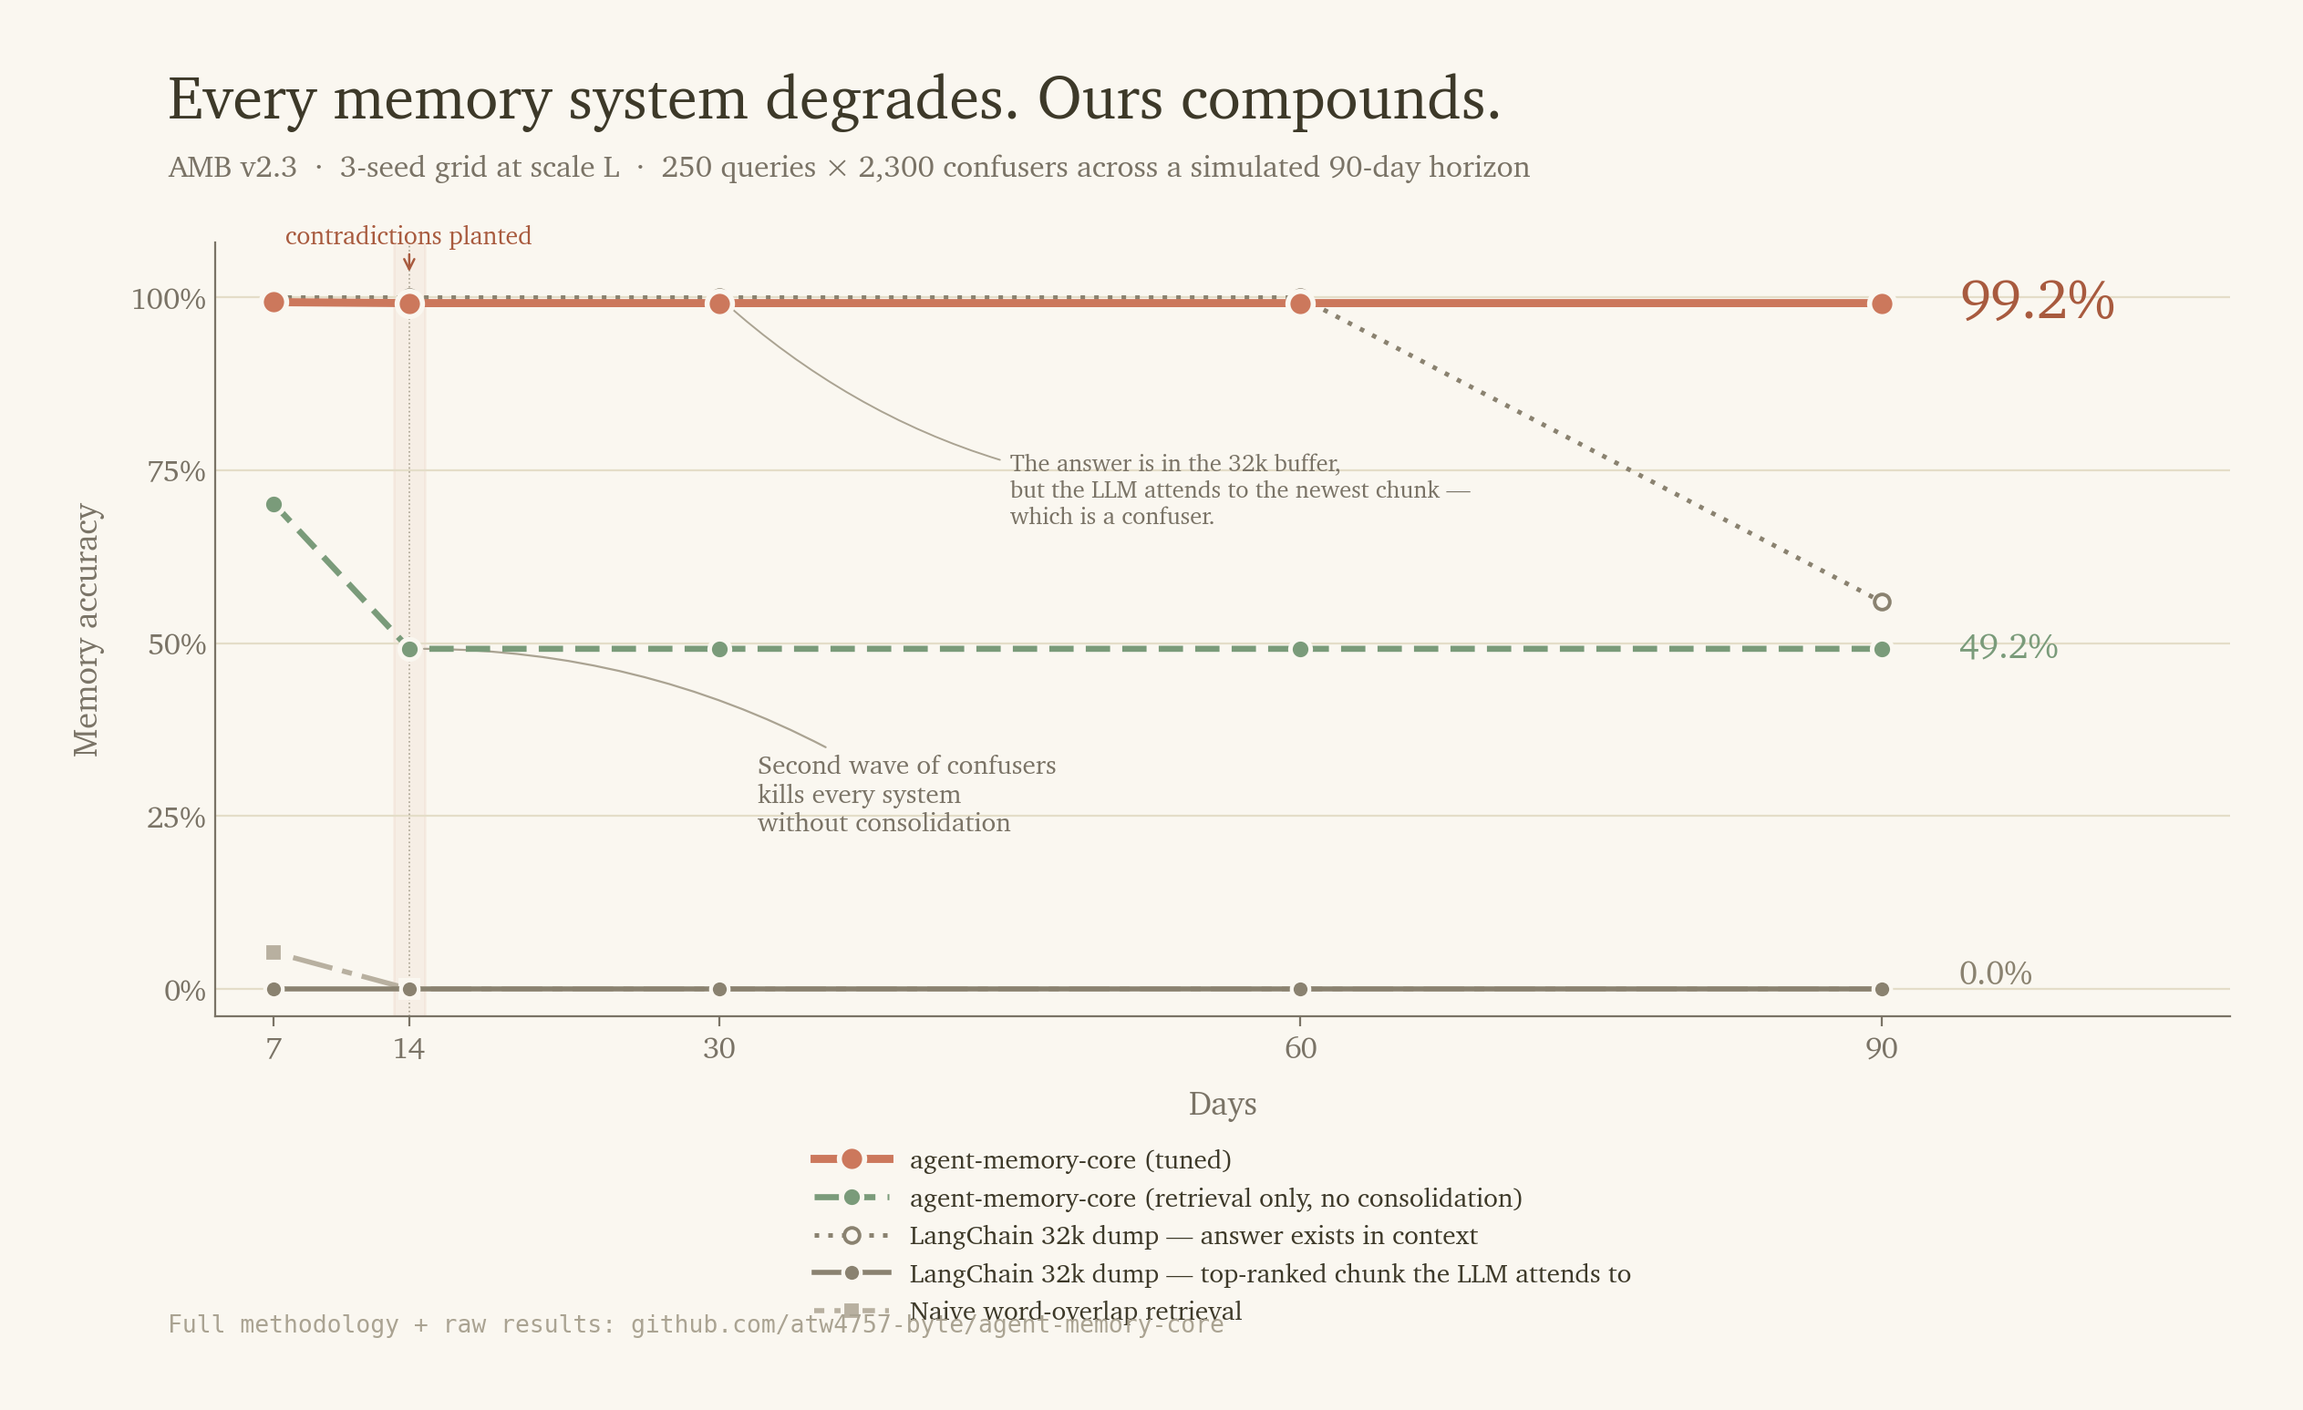
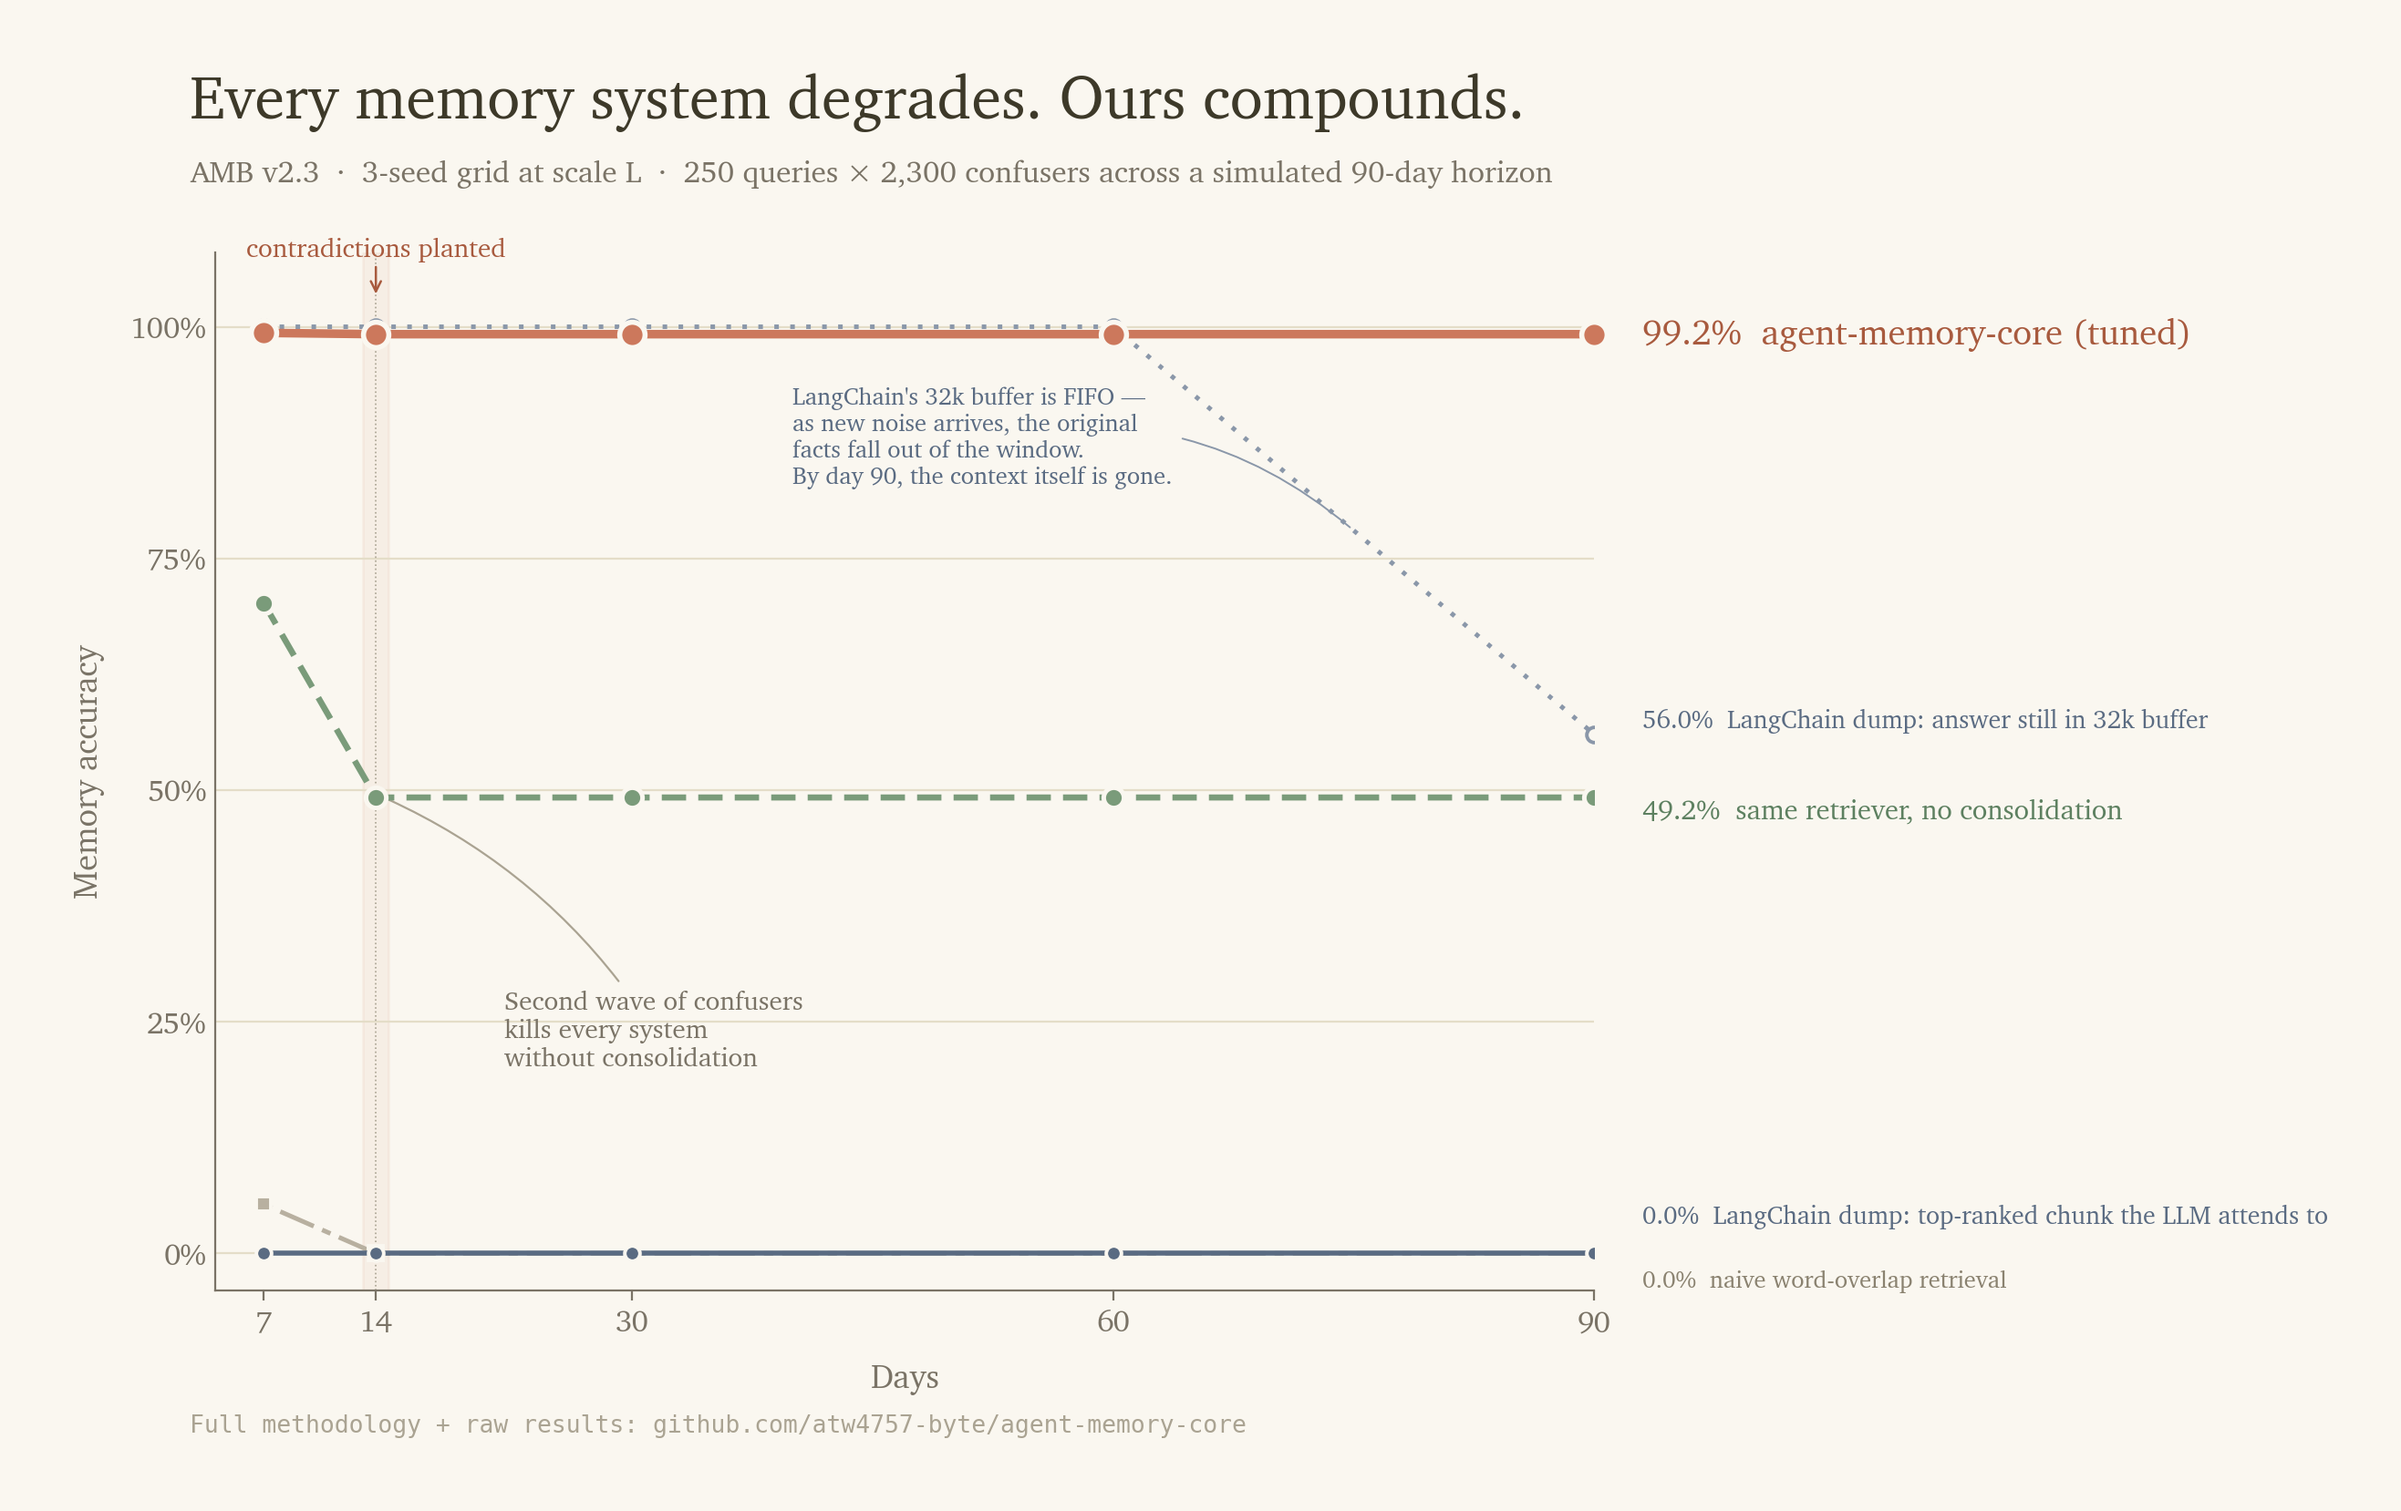
Chart: direct endpoint labels + dotted-line explanation
- Every line now labeled at its endpoint (no legend-below-chart dependency)
- LangChain recolored slate/blue — visually distinct from AMC orange/teal
  so the declining dotted line is no longer confusable with AMC-tuned
- New annotation explains why LangChain dotted line dips after day 30:
  'LangChain's 32k buffer is FIFO — as new noise arrives, the original
  facts fall out of the window. By day 90, the context itself is gone.'
- Cache-bust bumped to v=20260419c

diff --git a/amc/index.html b/amc/index.html
@@ -6,7 +6,7 @@
   <meta name="description" content="Every memory system degrades. Ours compounds. AMB v2.3: 99.2% top-1 accuracy at 250-query scale — every non-retriever baseline scores 0.0%.">
   <meta property="og:title" content="agent-memory-core — Every memory system degrades. Ours compounds.">
   <meta property="og:description" content="AMB v2.3 · 3-seed grid · 99.2% top-1 vs 0.0% for every non-retriever baseline at 250-query scale.">
-  <meta property="og:image" content="/images/amb-v23-og.png?v=20260419b">
+  <meta property="og:image" content="/images/amb-v23-og.png?v=20260419c">
   <title>agent-memory-core — Every memory system degrades. Ours compounds.</title>
 
   <style>
@@ -293,7 +293,7 @@
     </div>
 
     <figure class="hero-chart reveal">
-      <img src="/images/amb-v23-degradation.png?v=20260419b" alt="AMB v2.3 — Memory accuracy across a simulated 90-day horizon. agent-memory-core tuned holds at 99.2%; retrieval-only collapses to 49.2% when the second wave of contradictions is planted on day 14; LangChain 32k dump has the answer in context but its top-ranked chunk is noise — 0.0% top-1 throughout.">
+      <img src="/images/amb-v23-degradation.png?v=20260419c" alt="AMB v2.3 — Memory accuracy across a simulated 90-day horizon. agent-memory-core tuned holds at 99.2%; retrieval-only collapses to 49.2% when the second wave of contradictions is planted on day 14; LangChain 32k dump has the answer in context but its top-ranked chunk is noise — 0.0% top-1 throughout.">
       <figcaption class="hero-chart-caption">
         Top-1 accuracy over simulated time · AMB v2.3 · 3-seed mean (42, 43, 44) at scale L (250 queries × 2,300 confusers)
       </figcaption>
